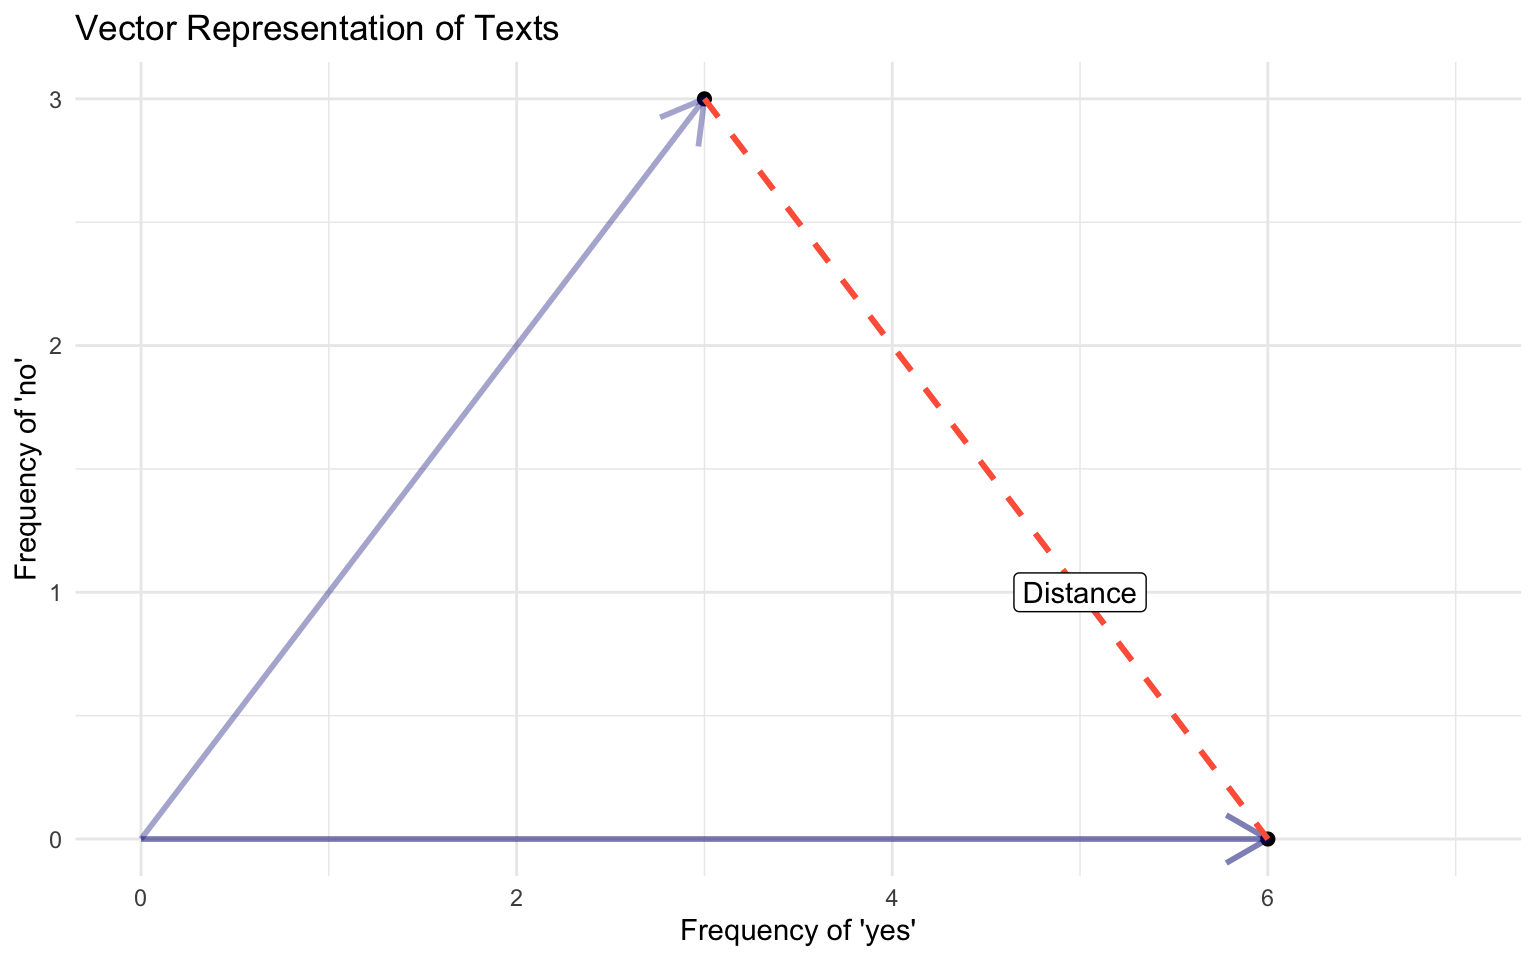
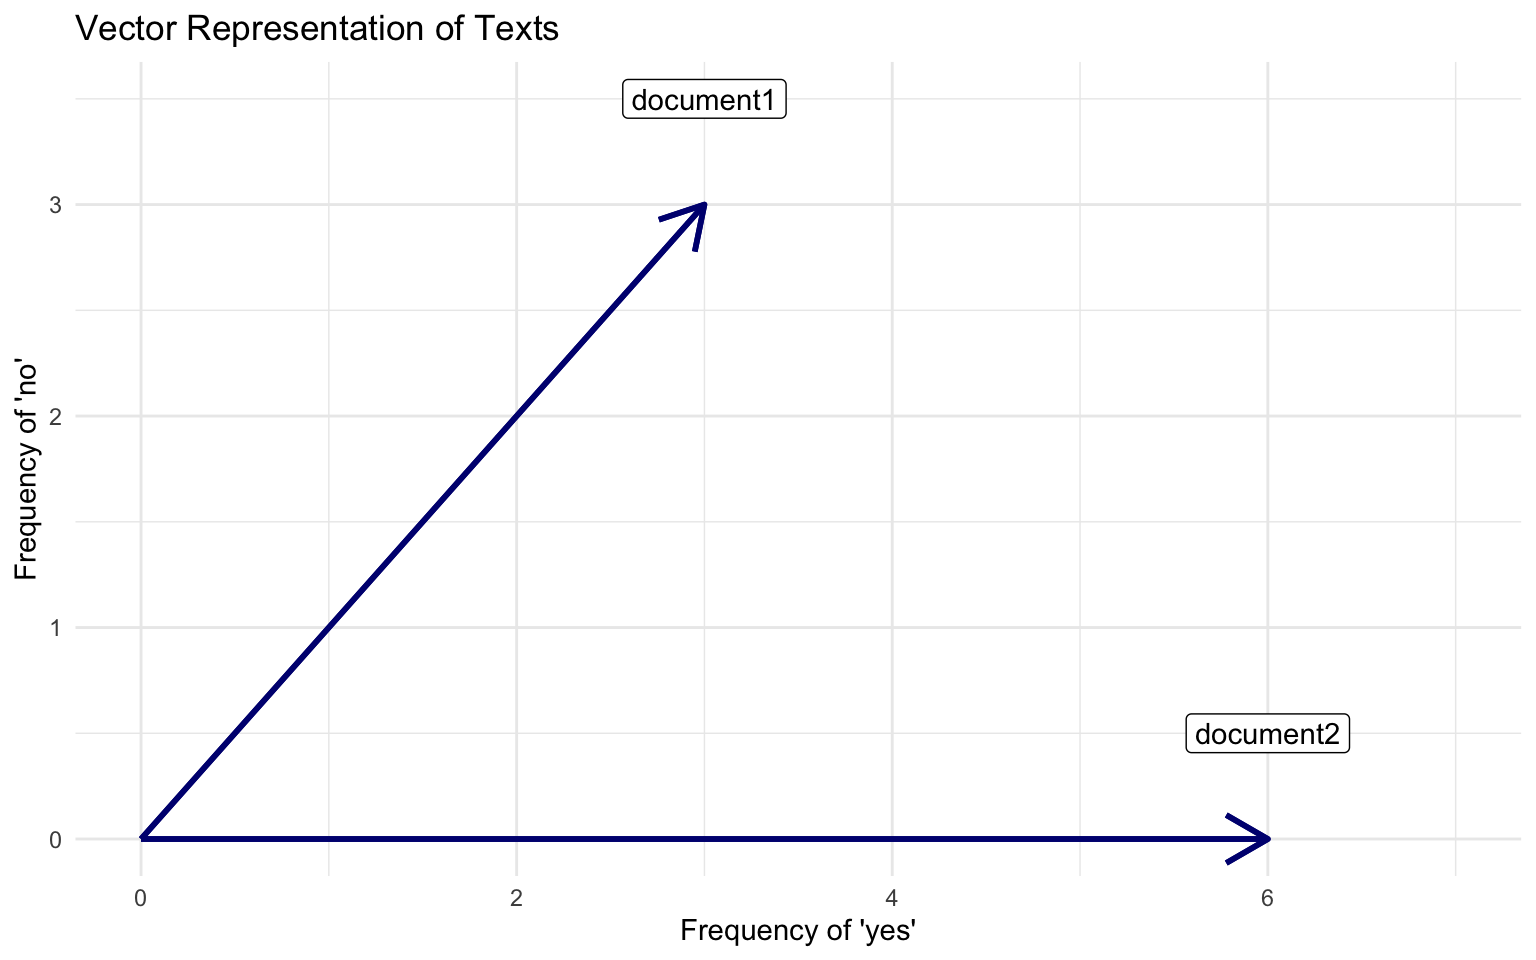
pre ie

diff --git a/docs/slides/week_02.html b/docs/slides/week_02.html
@@ -712,7 +712,7 @@
 <p><span class="red"><strong>Starting point</strong></span>: No rigorous way to compare results across different pre-processing steps. Adapting recommendations from supervised learning tasks.</p>
 </div>
 <div class="fragment">
-<p><strong>Summary:</strong></p>
+<p><strong>Example of the issue:</strong></p>
 <ul>
 <li class="fragment"><p>Four sets of UK election manifestos</p></li>
 <li class="fragment"><p>Run Wordfish to assess positions of parties from their manifestos</p></li>
@@ -734,13 +734,14 @@
 </section>
 <section id="pretext-a-new-method-for-assessing-sensitivity" class="slide level2 center">
 <h2>preText: A New Method for Assessing Sensitivity</h2>
-<p>In your words, describe their solution to the pre-processing issue:</p>
+<p>In your words, describe their solution to the pre-processing issue.</p>
 <aside class="notes">
 <div class="fragment">
 <ul>
 <li><p>Calculate distance of every document under no pre-processing</p></li>
 <li><p>Calculate distance of every document under M_i pre-processing</p></li>
 <li><p>Each specification will have a largest (k) pair-mover.</p></li>
+<li><p>V_M_1 = rank order of the top k moves in M1 across all other M pre-processing.</p></li>
 </ul>
 <p><span class="math display">\[ v_{M1} = \bigl( 2M_{2},\, 14M_{3},\, 2M_{4},\, 3M_{5},\, \ldots,\, 15M_{127} \bigr)\]</span></p>
 <ul>
@@ -759,6 +760,34 @@
           overflow: hidden!important;
           display:block!important;
       }</style></aside>
+</section>
+<section id="results" class="slide level2 center">
+<h2>Results</h2>
+<div>
+<div class="columns">
+<div class="column" style="width:30%;">
+<p><strong>Interpretation</strong></p>
+<ul>
+<li>Lower score r ~ Typical changes</li>
+<li>Higher score r ~ Atypical changes</li>
+</ul>
+<p><strong>Implementation</strong></p>
+<ul>
+<li>R package <code>preText</code></li>
+</ul>
+</div><div class="column" style="width:70%;">
+<div class="cell" data-layout-align="center" data-hash="week_02_cache/revealjs/unnamed-chunk-5_92c69100b000dd30e45774aedabffbb9">
+<div class="cell-output-display">
+<div class="quarto-figure quarto-figure-center">
+<figure>
+<p><img data-src="week2_figs/danny_reg.png" style="width:20cm;height:20cm"></p>
+</figure>
+</div>
+</div>
+</div>
+</div>
+</div>
+</div>
 </section></section>
 <section>
 <section id="vector-space-model-convert-text-to-numbers" class="title-slide slide level1 center">
@@ -791,7 +820,7 @@
 <div class="fragment">
 <!-- -->
 <h3 id="dfm">DFM</h3>
-<div class="cell" data-layout-align="center" data-hash="week_02_cache/revealjs/unnamed-chunk-5_968375c428d4298713209eb979d78fec">
+<div class="cell" data-layout-align="center" data-hash="week_02_cache/revealjs/unnamed-chunk-6_ac398f5a4ce7d071b51107802aadf500">
 <div class="cell-output-display">
 <div class="quarto-figure quarto-figure-center">
 <figure>
@@ -816,7 +845,7 @@
 </div>
 </div>
 
-<img data-src="week_02_files/figure-revealjs/unnamed-chunk-6-1.png" width="768" class="r-stretch quarto-figure-center"></section>
+<img data-src="week_02_files/figure-revealjs/unnamed-chunk-7-1.png" width="768" class="r-stretch quarto-figure-center"></section>
 <section id="visualizing-vector-space-model-1" class="slide level2 center">
 <h2>Visualizing Vector Space Model</h2>
 
@@ -830,14 +859,14 @@ What is the vector representation of this sentence? Give me the vocabulary and t
 
 ## If you are curious ...
 
-::: {.cell layout-align="center" hash='week_02_cache/revealjs/unnamed-chunk-8_f4cd289390115286948f961d86fadb1e'}
+::: {.cell layout-align="center" hash='week_02_cache/revealjs/unnamed-chunk-9_ce54a1bec2e8d49ef183e43988fec181'}
 ::: {.cell-output-display}
 ![](https://m.media-amazon.com/images/I/A1lv97-jJoL._SL1500_.jpg){fig-align='center'}
 :::
 :::
 
 -->
-<img data-src="week_02_files/figure-revealjs/unnamed-chunk-7-1.png" width="768" class="r-stretch quarto-figure-center"></section></section>
+<img data-src="week_02_files/figure-revealjs/unnamed-chunk-8-1.png" width="768" class="r-stretch quarto-figure-center"></section></section>
 <section>
 <section id="application" class="title-slide slide level1 center">
 <h1>Application</h1>
@@ -845,31 +874,34 @@ What is the vector representation of this sentence? Give me the vocabulary and t
 </section>
 <section id="ban-et.-al.-2019-how-newspapers-reveal-political-power." class="slide level2 center">
 <h2>Ban et. al.&nbsp;2019, How Newspapers Reveal Political Power.</h2>
-
-<img data-src="week2_figs/ban_.png" width="846" class="r-stretch quarto-figure-center"></section>
-<section id="things-you-like-about-this-paper" class="slide level2 center">
-<h2>Things you like about this paper…</h2>
-</section>
-<section id="things-i-like-about-this-paper" class="slide level2 center">
-<h2>Things I like about this paper…</h2>
 <div>
+<p><strong>Abstract:</strong> <em>Political science is in large part the study of power, but power itself is difficult to measure. We argue that we can use newspaper coverage—in particular, the relative amount of space devoted to particular subjects in newspapers—to measure the relative power of an important set of political actors and offices.</em></p>
 <ul>
-<li><p>Descriptive paper</p>
+<li><p>Descriptive paper with TaD</p>
 <ul>
 <li><p>No complicated statistical model</p></li>
 <li><p>Nice data + theory + contextual knowledge</p></li>
 </ul></li>
-<li><p>An clever example of using text to measure a latent outcome (political power)</p></li>
-<li><p>TaD + Metadata</p>
-<ul>
-<li>Most applied social science papers will consist of this combination</li>
-</ul></li>
-<li><p>Simple quantity of interest: just by counting words.</p></li>
+<li><p>Clever example of using text to measure a latent outcome (political power)</p></li>
+<li><p>Simple measure: just by counting words.</p></li>
 </ul>
 <p><span class="math display">\[
-\small \text{Coverage of Mayor}_{it} = \frac{\text{Mayor}_{it}}{\text{Mayor}_{it} + \text{City Manager}_{it} + \text{City Council}_{it}}
+\text{Relative Power of A} \;=\;
+\frac{\# \text{ of Newspaper Mentions of A}}
+     {\# \text{ of Newspaper Mentions of A} + \# \text{ of Newspaper Mentions of B}}
 \]</span></p>
 </div>
+</section>
+<section id="validation" class="slide level2 center">
+<h2>Validation</h2>
+
+<img data-src="week2_figs/pam_validation.png" width="821" class="r-stretch quarto-figure-center"></section>
+<section id="results-1" class="slide level2 center">
+<h2>Results</h2>
+
+<img data-src="week2_figs/ban_.png" width="846" class="r-stretch quarto-figure-center"></section>
+<section id="things-you-like-about-this-paper" class="slide level2 center">
+<h2>Things you like about this paper…</h2>
 </section></section>
 <section id="coding" class="title-slide slide level1 center">
 <h1>Coding!</h1>
